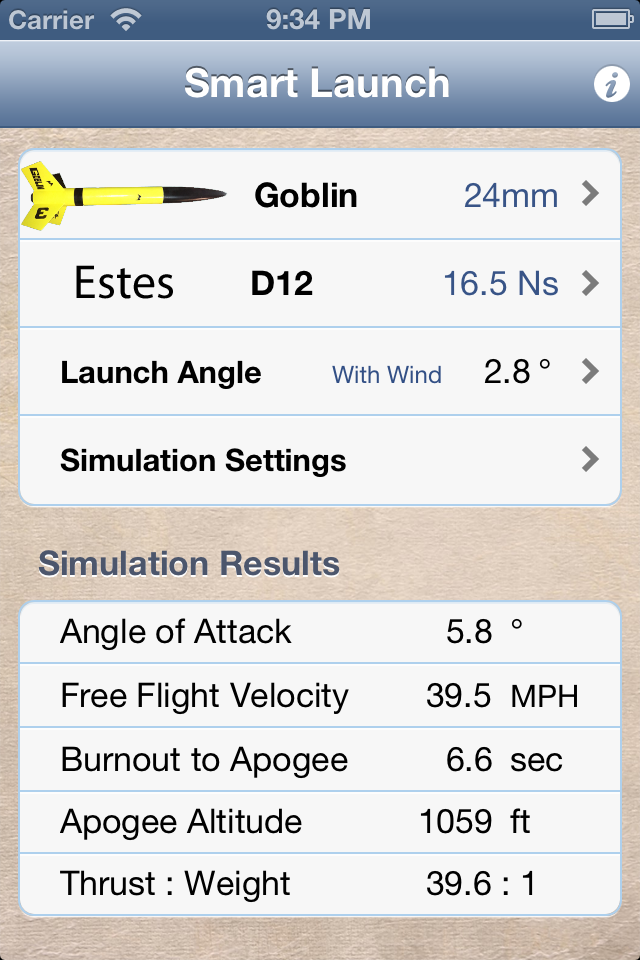
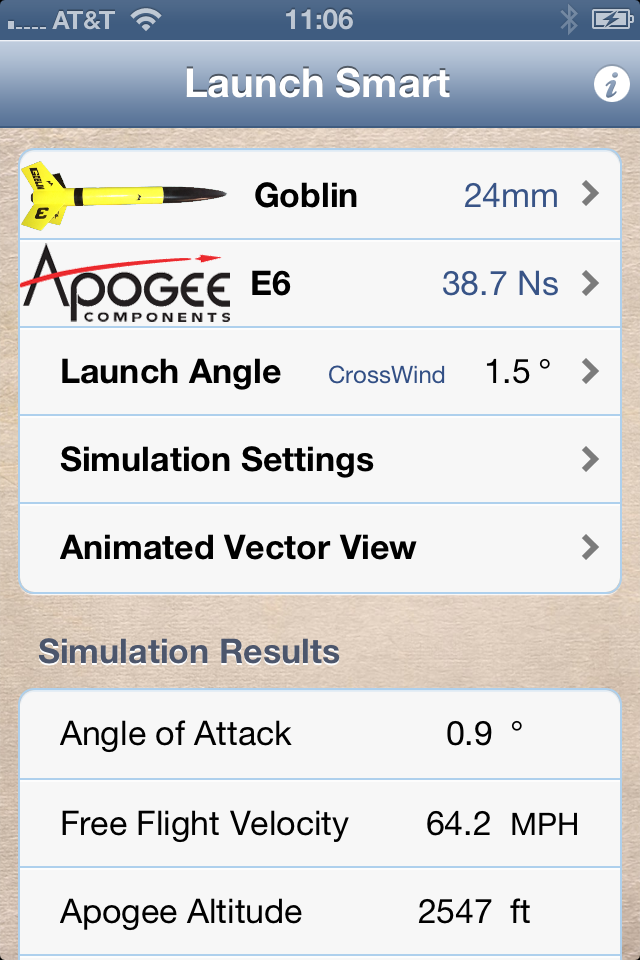
A little more optimization for the integration loop. Changed the default motor to Apogee D10 in honor of Tim van Milligan's niceness.

diff --git a/Smart Launch/RocketMotor.m b/Smart Launch/RocketMotor.m
@@ -114,28 +114,28 @@
 }
 
 -(CGFloat)thrustAtTime:(CGFloat)time{
-    if ((time == 0.0) || (time >= [[self.times lastObject] floatValue])) return 0.0;
+    if ((time == 0.0) || (time >= [[_times lastObject] floatValue])) return 0.0;
     NSInteger i = 0;
-    while ([[self.times objectAtIndex:i] floatValue] < time) {
+    while ([[_times objectAtIndex:i] floatValue] < time) {
         i++;
     }
     double fiminus1 = 0.0;
     double timinus1 = 0.0;
     if (i>0) {
-        fiminus1 = [[self.thrusts objectAtIndex:i-1] doubleValue];
-        timinus1 = [[self.times objectAtIndex:i-1] doubleValue];
+        fiminus1 = [[_thrusts objectAtIndex:i-1] doubleValue];
+        timinus1 = [[_times objectAtIndex:i-1] doubleValue];
     }
-    double dti = [[self.times objectAtIndex:i] doubleValue];
-    double dfi = [[self.thrusts objectAtIndex:i] doubleValue];
+    double dti = [[_times objectAtIndex:i] doubleValue];
+    double dfi = [[_thrusts objectAtIndex:i] doubleValue];
     
     double ftime = fiminus1 + ((time - timinus1)/(dti - timinus1)) * (dfi - fiminus1);
     return ftime;
 }
 
 -(CGFloat)massAtTime:(CGFloat)time{
-    double percentOfBurn = time / [[self.times lastObject] floatValue];
+    double percentOfBurn = time / [[_times lastObject] floatValue];
     if (percentOfBurn > 1.0) percentOfBurn = 1.0;
-    return [self.mass floatValue] - percentOfBurn * [self.propellantMass floatValue];
+    return [_mass floatValue] - percentOfBurn * [_propellantMass floatValue];
 }
 
 #pragma mark - RocketMotor Class methods
@@ -182,7 +182,7 @@
             @"38mm", @"54mm", @"75mm", @"98mm", @"150mm", nil];
 }
 
-+ (RocketMotor *)defaultMotor{  // Estes D12
+/*+ (RocketMotor *)defaultEstesMotor{  // Estes D12
     NSArray *times = [NSArray arrayWithObjects:
                       [NSNumber numberWithFloat:0.049],
                       [NSNumber numberWithFloat:0.166],
@@ -238,6 +238,86 @@
                               @"0-3-5-7", DELAYS_KEY,
                               nil];
     return [RocketMotor motorWithMotorDict:estesD12];
+}*/
+
++ (RocketMotor *)defaultMotor{
+    NSArray *times = @[@(0.011),
+    @(0.018),
+    @(0.032),
+    @(0.079),
+    @(0.122),
+    @(0.136),
+    @(0.169),
+    @(0.201),
+    @(0.223),
+    @(0.233),
+    @(0.255),
+    @(0.276),
+    @(0.352),
+    @(0.402),
+    @(0.420),
+    @(0.459),
+    @(0.488),
+    @(0.556),
+    @(0.671),
+    @(0.707),
+    @(0.729),
+    @(0.779),
+    @(0.793),
+    @(0.836),
+    @(0.904),
+    @(0.926),
+    @(0.990),
+    @(1.026),
+    @(1.123),
+    @(1.231),
+    @(1.342),
+    @(1.400)];
+    NSArray *thrusts = @[@(14.506),
+    @(25.13),
+    @(20.938),
+    @(19.065),
+    @(21.139),
+    @(19.686),
+    @(21.139),
+    @(20.728),
+    @(21.76),
+    @(20.938),
+    @(21.97),
+    @(20.938),
+    @(20.728),
+    @(20.107),
+    @(20.728),
+    @(20.107),
+    @(20.517),
+    @(18.243),
+    @(15.959),
+    @(14.717),
+    @(15.127),
+    @(12.853),
+    @(13.474),
+    @(11.401),
+    @(10.158),
+    @(10.569),
+    @(8.083),
+    @(8.498),
+    @(6.011),
+    @(2.487),
+    @(0.829),
+    @(0)];
+    //D10 18 70 3-5-7 0.0098 0.0259 Apogee
+
+    NSDictionary *apogeeD10 = @{NAME_KEY: @"D10",
+        MOTOR_DIAM_KEY: @(18.0),
+        MOTOR_LENGTH_KEY: @(70.0),
+        DELAYS_KEY: @"3-5-7",
+        PROP_MASS_KEY: @(0.0098),
+        MOTOR_MASS_KEY: @(0.0259),
+        MAN_KEY: @"Apogee",
+        IMPULSE_KEY: @"D",
+        TIME_KEY: times,
+        THRUST_KEY: thrusts};
+    return [RocketMotor motorWithMotorDict:apogeeD10];
 }
 
 @end

diff --git a/Smart Launch/SLPhysicsModel.m b/Smart Launch/SLPhysicsModel.m
@@ -207,7 +207,8 @@
     self.velocity = 0;
     self.timeIndex = 0;
     float mRocket = [self.rocket.mass floatValue];
-    double totalDistanceTravelled, distanceTravelled = 0;
+    double totalDistanceTravelled = 0;
+    double distanceTravelled = 0;
     double g = GRAV_ACCEL * cos(_launchGuideAngle);
     
     while (totalDistanceTravelled < _launchGuideLength) {
@@ -364,8 +365,6 @@
         if (a > 0) {        //remember DIVS is in units of 1/sec
             dist += (v / DIVS_DURING_BURN) + (0.5 * a /(DIVS_DURING_BURN * DIVS_DURING_BURN));
             v += a / DIVS_DURING_BURN;
-        }else{
-            a = 0;
         }
     }
     return v;

diff --git a/Smart Launch/SLMotorTableViewController.m b/Smart Launch/SLMotorTableViewController.m
@@ -59,7 +59,7 @@
     NSDictionary *motorDict = [[self.motors objectAtIndex:indexPath.section] objectAtIndex:indexPath.row];
     
     cell.textLabel.text = [motorDict objectForKey:NAME_KEY];
-    cell.detailTextLabel.text = [motorDict objectForKey:MAN_KEY];
+    cell.detailTextLabel.text = [NSString stringWithFormat:@"Propellant %5.0f g",[[motorDict objectForKey:PROP_MASS_KEY] floatValue] * 1000];
     NSString *path = [[NSBundle mainBundle] pathForResource:[motorDict objectForKey:MAN_KEY] ofType:@"png"];
     UIImage *theImage = [UIImage imageWithContentsOfFile:path];
     cell.imageView.image = theImage;

diff --git a/Smart Launch/SLInformationTVC.m b/Smart Launch/SLInformationTVC.m
@@ -111,7 +111,8 @@
 - (void)tableView:(UITableView *)tableView didSelectRowAtIndexPath:(NSIndexPath *)indexPath{
     [tableView deselectRowAtIndexPath:indexPath animated:YES];
     if (indexPath.row == 2){
-        [self requestNewMotorList];
+        // If a thread is running to check for motors already, the spinner will be visible
+        if ([self.spinner isHidden]) [self requestNewMotorList];
     }
 }
 
